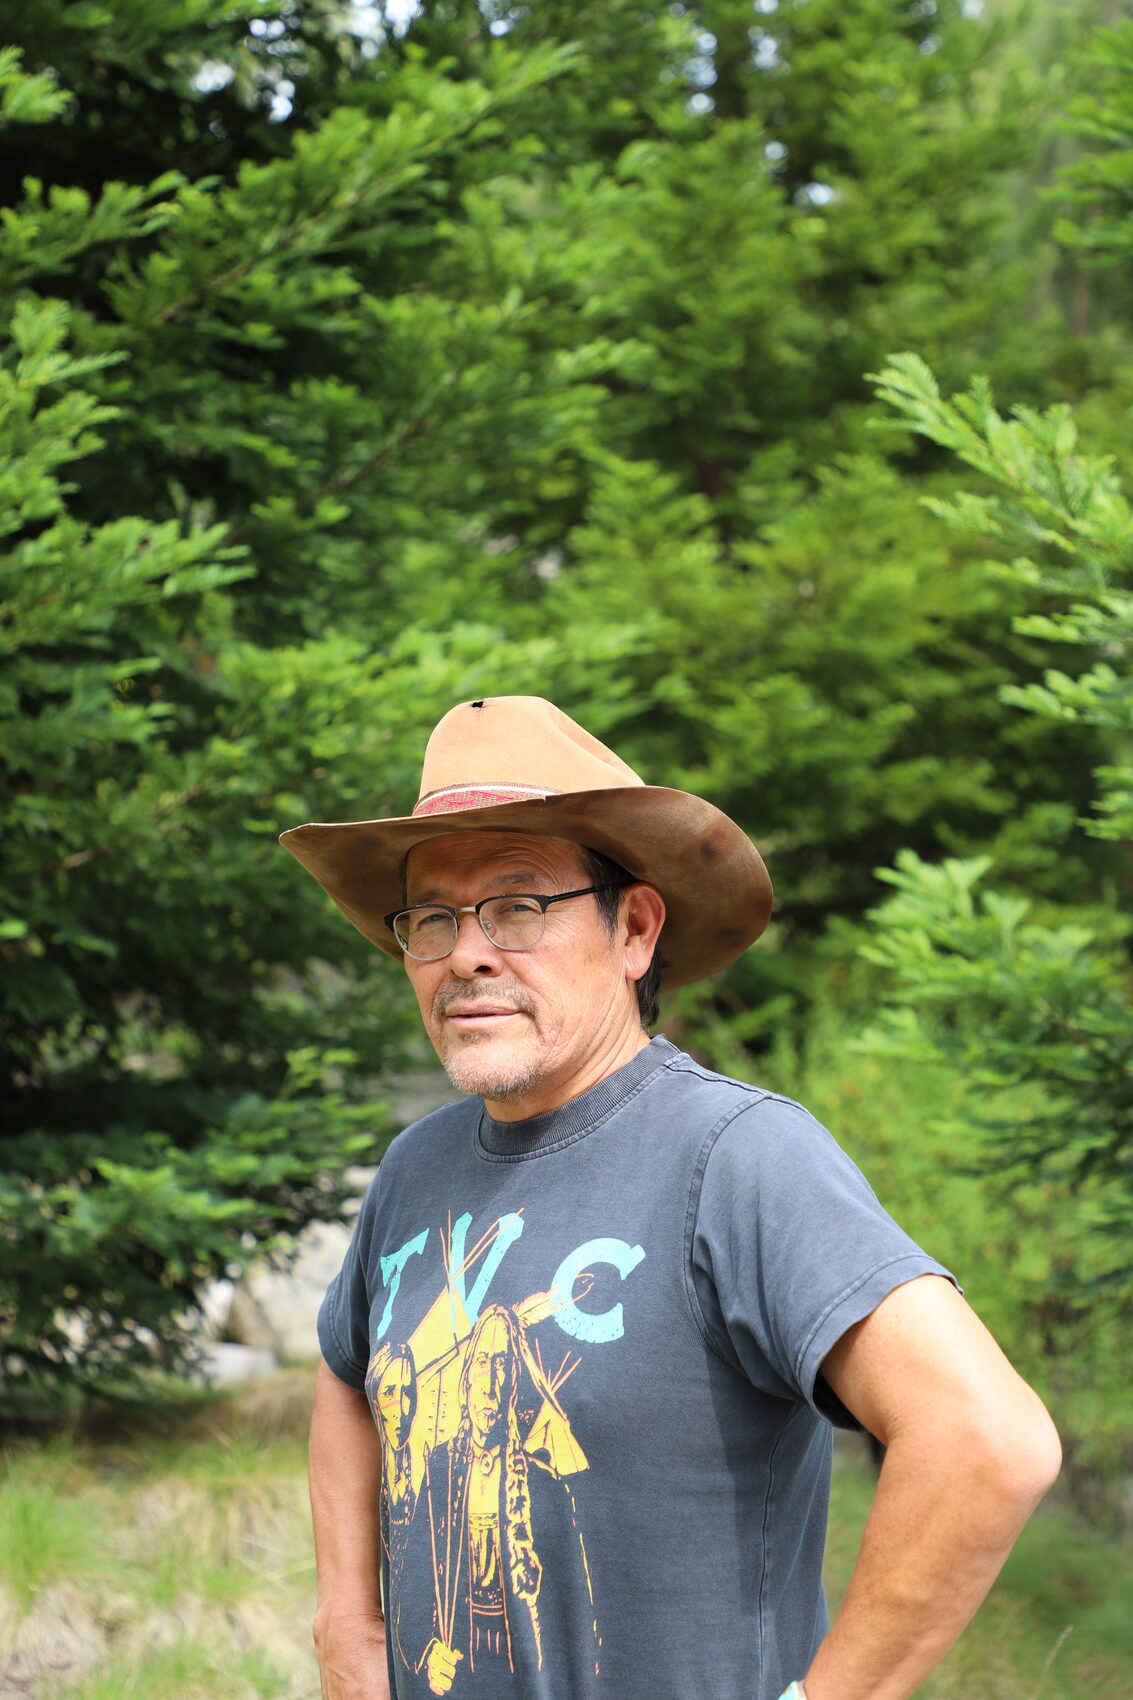
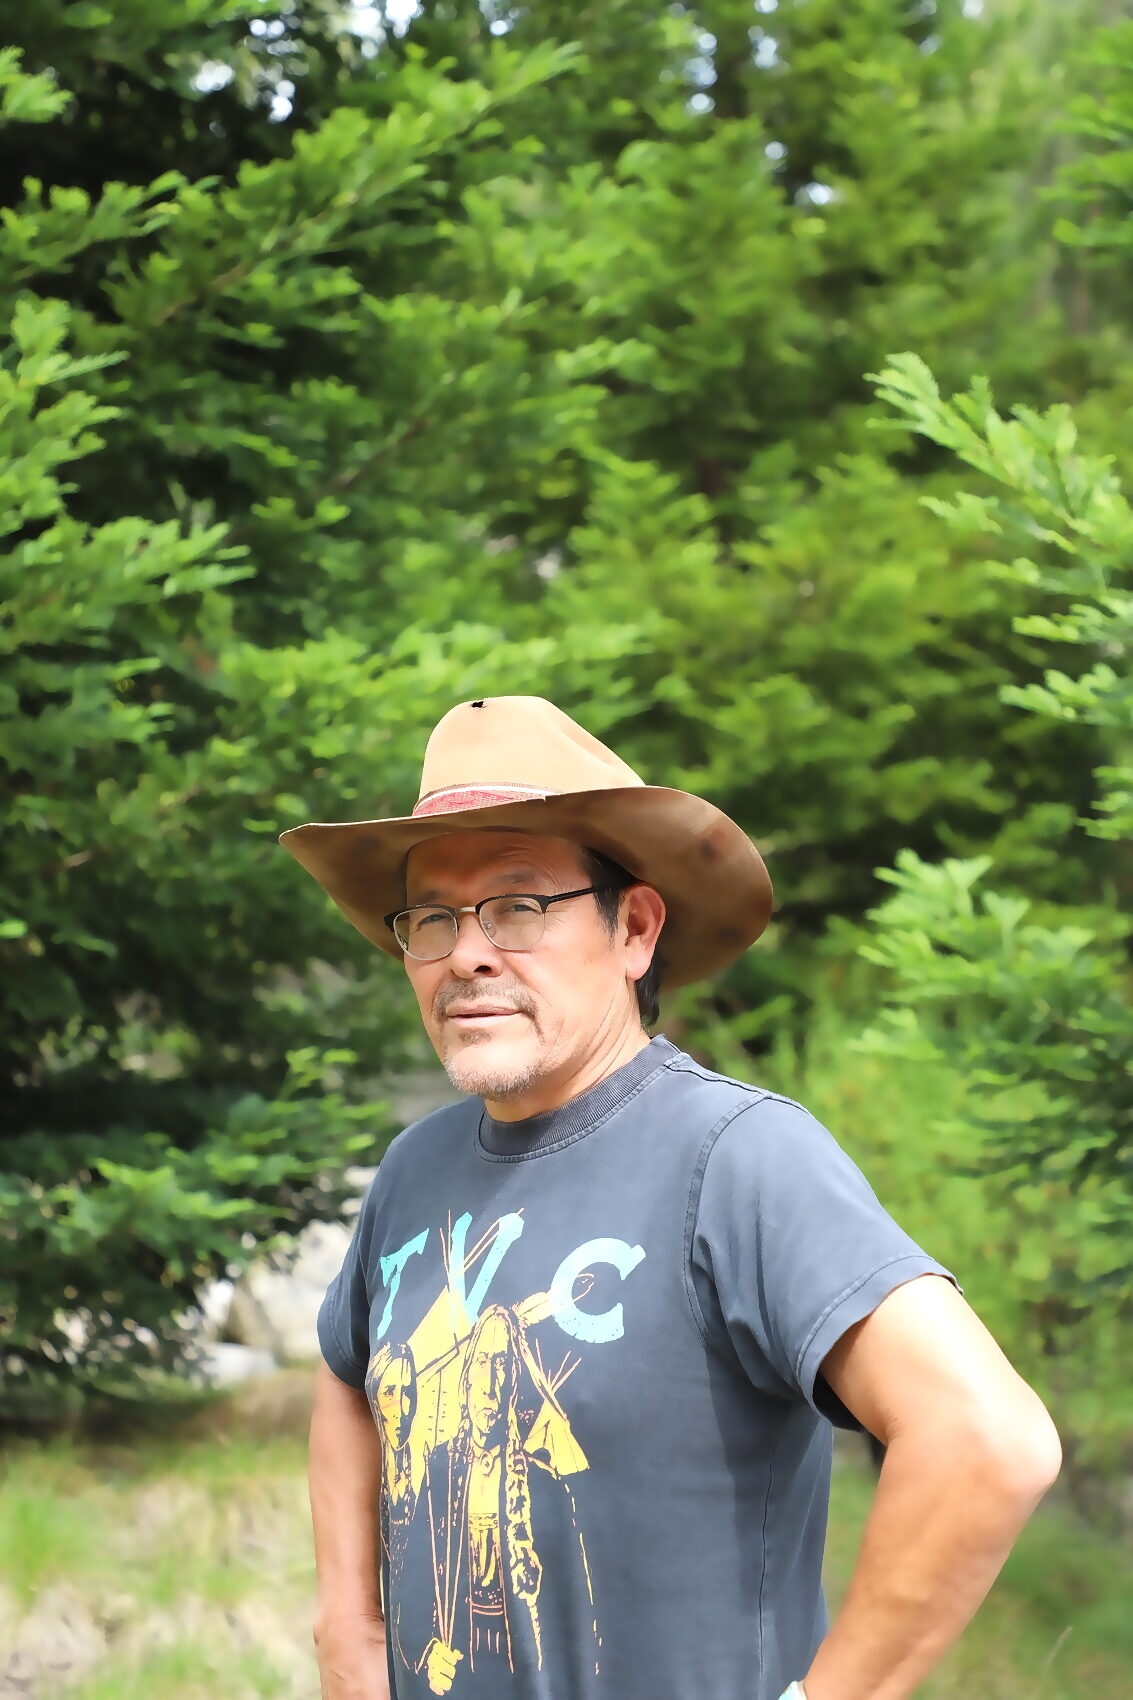
Canyon Within retreat: real 1440 redwoods photos throughout; subtle natural retouch on portraits

diff --git a/workshop/index.html b/workshop/index.html
@@ -4,7 +4,7 @@
 <meta name="description" content="The Canyon Within — an intimate 3-day ancestral wellness retreat with Tony Skrelūnas at 1440 Multiversity, Aug 28–30, 2026. Breathwork, story, gratitude, and the Ancestral Kitchen. Just 18 seats. All-inclusive from $1,100.">
 <meta property="og:title" content="The Canyon Within — A Harvest Gathering">
 <meta property="og:description" content="A 3-day ancestral retreat with Tony Skrelūnas at 1440 Multiversity, Aug 28–30, 2026. Just 18 seats.">
-<meta property="og:image" content="/assets/img/ocean-crosser.jpg">
+<meta property="og:image" content="/assets/img/1440/fire-circle.jpg">
 <link rel="preconnect" href="https://fonts.googleapis.com"><link rel="preconnect" href="https://fonts.gstatic.com" crossorigin>
 <link href="https://fonts.googleapis.com/css2?family=Spectral:ital,wght@0,400;0,500;0,600;1,400;1,500&family=Hanken+Grotesk:wght@400;500;600;700&display=swap" rel="stylesheet">
 <link rel="stylesheet" href="/css/tokens.css"><link rel="stylesheet" href="/css/style.css">
@@ -33,6 +33,10 @@
   .rt-faq summary{font-family:var(--font-display);font-size:1.15rem;color:var(--bone);cursor:pointer;}
   .rt-faq p{color:#C9C3B5;margin:.6rem 0 0;}
   .rt-cta{display:inline-block;margin-top:var(--space-3);}
+  .rt-img{width:100%;border-radius:var(--radius-lg);overflow:hidden;margin:var(--space-4) 0;}
+  .rt-img img{width:100%;height:auto;display:block;}
+  .rt-img--wide img{max-height:540px;object-fit:cover;}
+  .rt-img figcaption{font-family:var(--font-body);font-size:.85rem;color:var(--silver);text-align:center;margin-top:.5rem;font-style:italic;}
 </style>
 </head>
 <body>
@@ -50,7 +54,7 @@
 <main id="main">
   <!-- HERO -->
   <section class="rt__hero">
-    <div class="rt__hero-bg"><img src="/assets/img/canyon-family.jpg" alt="A grandmother, mother, and daughter walking a red-rock canyon trail at golden hour" loading="eager" style="object-position:center 40%;"></div>
+    <div class="rt__hero-bg"><img src="/assets/img/1440/redwoods.jpg" alt="Looking up into the giant redwoods at 1440 Multiversity, Scotts Valley" loading="eager" style="object-position:center 50%;"></div>
     <div class="rt__hero-scrim"></div>
     <div class="wrap">
       <p class="rt__kick">The Ancestral Watch · A Harvest Gathering</p>
@@ -70,6 +74,8 @@
     <p><strong>Regulate first</strong> — settle the nervous system so the body finally stops bracing. Then everything the ancestors left us becomes usable: the breath, the gratitude, the stories, the fire. You come down carrying something heavy. You go home lighter, steadier, and more yourself.</p>
   </div></section>
 
+  <div class="wrap"><figure class="rt-img rt-img--wide"><img src="/assets/img/1440/creek.jpg" alt="Tony beside the creek in the redwoods at 1440" loading="lazy"><figcaption>We open Friday by the creek — water, breath, and a circle that keeps a seat for you.</figcaption></figure></div>
+
   <!-- FREQUENCY -->
   <section class="section" style="background:linear-gradient(180deg,var(--night),var(--night-2));"><div class="wrap wrap--narrow" style="text-align:center;">
     <p class="eyebrow" style="color:var(--turq);">A change of frequency</p>
@@ -78,6 +84,8 @@
     <p>Into that stillness we bring the tools — <strong>meditation, breathwork, and sound healing</strong>, and wisdom braided from <strong>three cultures</strong>: the Diné of the red-earth country, the Baltic song-keepers, and the Japanese discipline of stillness. Different tongues, one human operating system. You arrive carrying the noise of a world that feels like it's coming apart. You leave carrying a <strong>frequency of well-being</strong> you can keep.</p>
     <p class="rt-quote">The world is loud and fast right now. This is three days of remembering how to be well inside it.</p>
   </div></section>
+
+  <div class="wrap"><figure class="rt-img rt-img--wide"><img src="/assets/img/1440/redwood-touch.jpg" alt="Standing beneath the Mother Tree in the redwoods at 1440" loading="lazy"><figcaption>Standing beneath the Mother Tree — the redwoods do half the work.</figcaption></figure></div>
 
   <!-- WHO COMES -->
   <section class="section" style="background:linear-gradient(180deg,var(--night-2),var(--night));"><div class="wrap">
@@ -92,6 +100,8 @@
     </div>
     <p class="muted" style="text-align:center;margin-top:var(--space-4);max-width:60ch;margin-left:auto;margin-right:auto;">You don't need to be fit, or a hiker, or experienced in any of this. Many arrive on their own and leave with a circle. Just eighteen guests, so no one gets lost. <em>The oldest medicine is intergenerational — grandmother, mother, daughter, moving together.</em></p>
   </div></section>
+
+  <div class="wrap"><figure class="rt-img rt-img--wide"><img src="/assets/img/1440/fire-circle.jpg" alt="A circle gathered at the fire in the redwoods at 1440 Multiversity" loading="lazy"><figcaption>The circle at the fire — just eighteen, so no one gets lost.</figcaption></figure></div>
 
   <!-- ABOUT -->
   <section class="section"><div class="wrap wrap--narrow">
@@ -130,6 +140,7 @@
   <section class="section" style="background:linear-gradient(180deg,var(--night-2),var(--night));"><div class="wrap wrap--narrow">
     <p class="eyebrow" style="color:var(--turq);">Your guides</p>
     <h2 style="font-family:var(--font-display);">Led by the people who live it.</h2>
+    <figure class="rt-img"><img src="/assets/img/1440/tony-redwoods.jpg" alt="Tony Skrelūnas in the redwoods at 1440 Multiversity" loading="lazy"></figure>
     <p><strong>Tony Skrelūnas</strong> — Creator &amp; Lead · Diné · Lithuanian · author of <em>Stone Breath</em>. Raised on Black Mesa by his great-grandmother Masan, who taught him to run at dawn with a stone in his mouth — a way to keep the breath calm when the body wanted to panic. He spent a career proving that ancestral wisdom and modern power are the same thing, then wrote it down. The Ancestral Watch is his life's work made into a weekend — he built it, and he leads it himself.</p>
     <p><strong>Missy &amp; Henry Webster</strong> — The Ancestral Kitchen · Food Is Healing. A Navajo family from Gray Mountain, Arizona, they turn the harvest feast into a hands-on teaching: blue corn, juniper ash, frybread — the old knowledge carried hand to hand. In the Ancestral Kitchen, cooking is a lineage you can taste.</p>
   </div></section>
